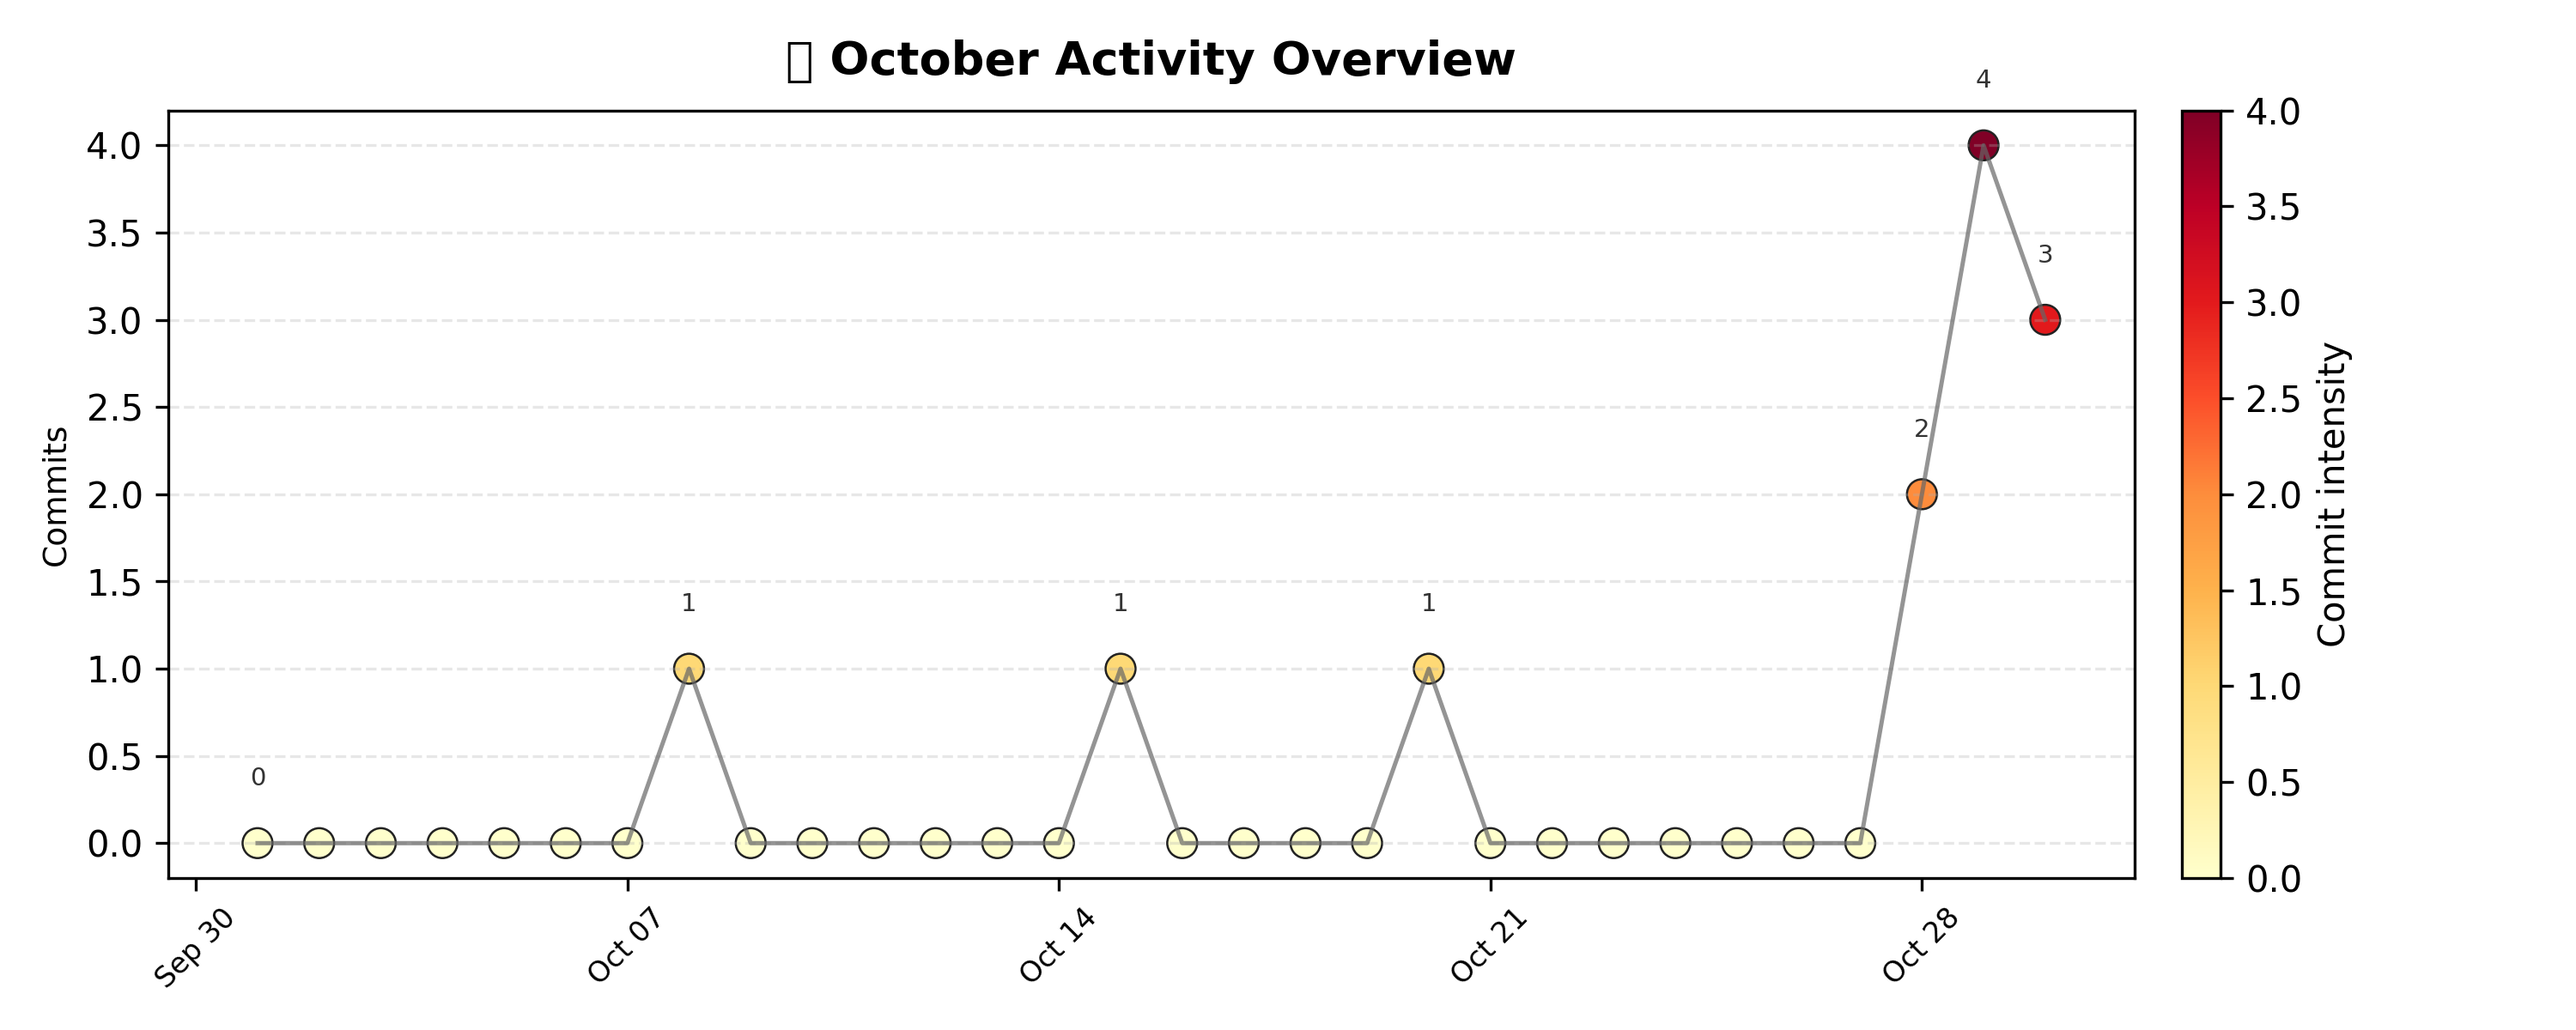
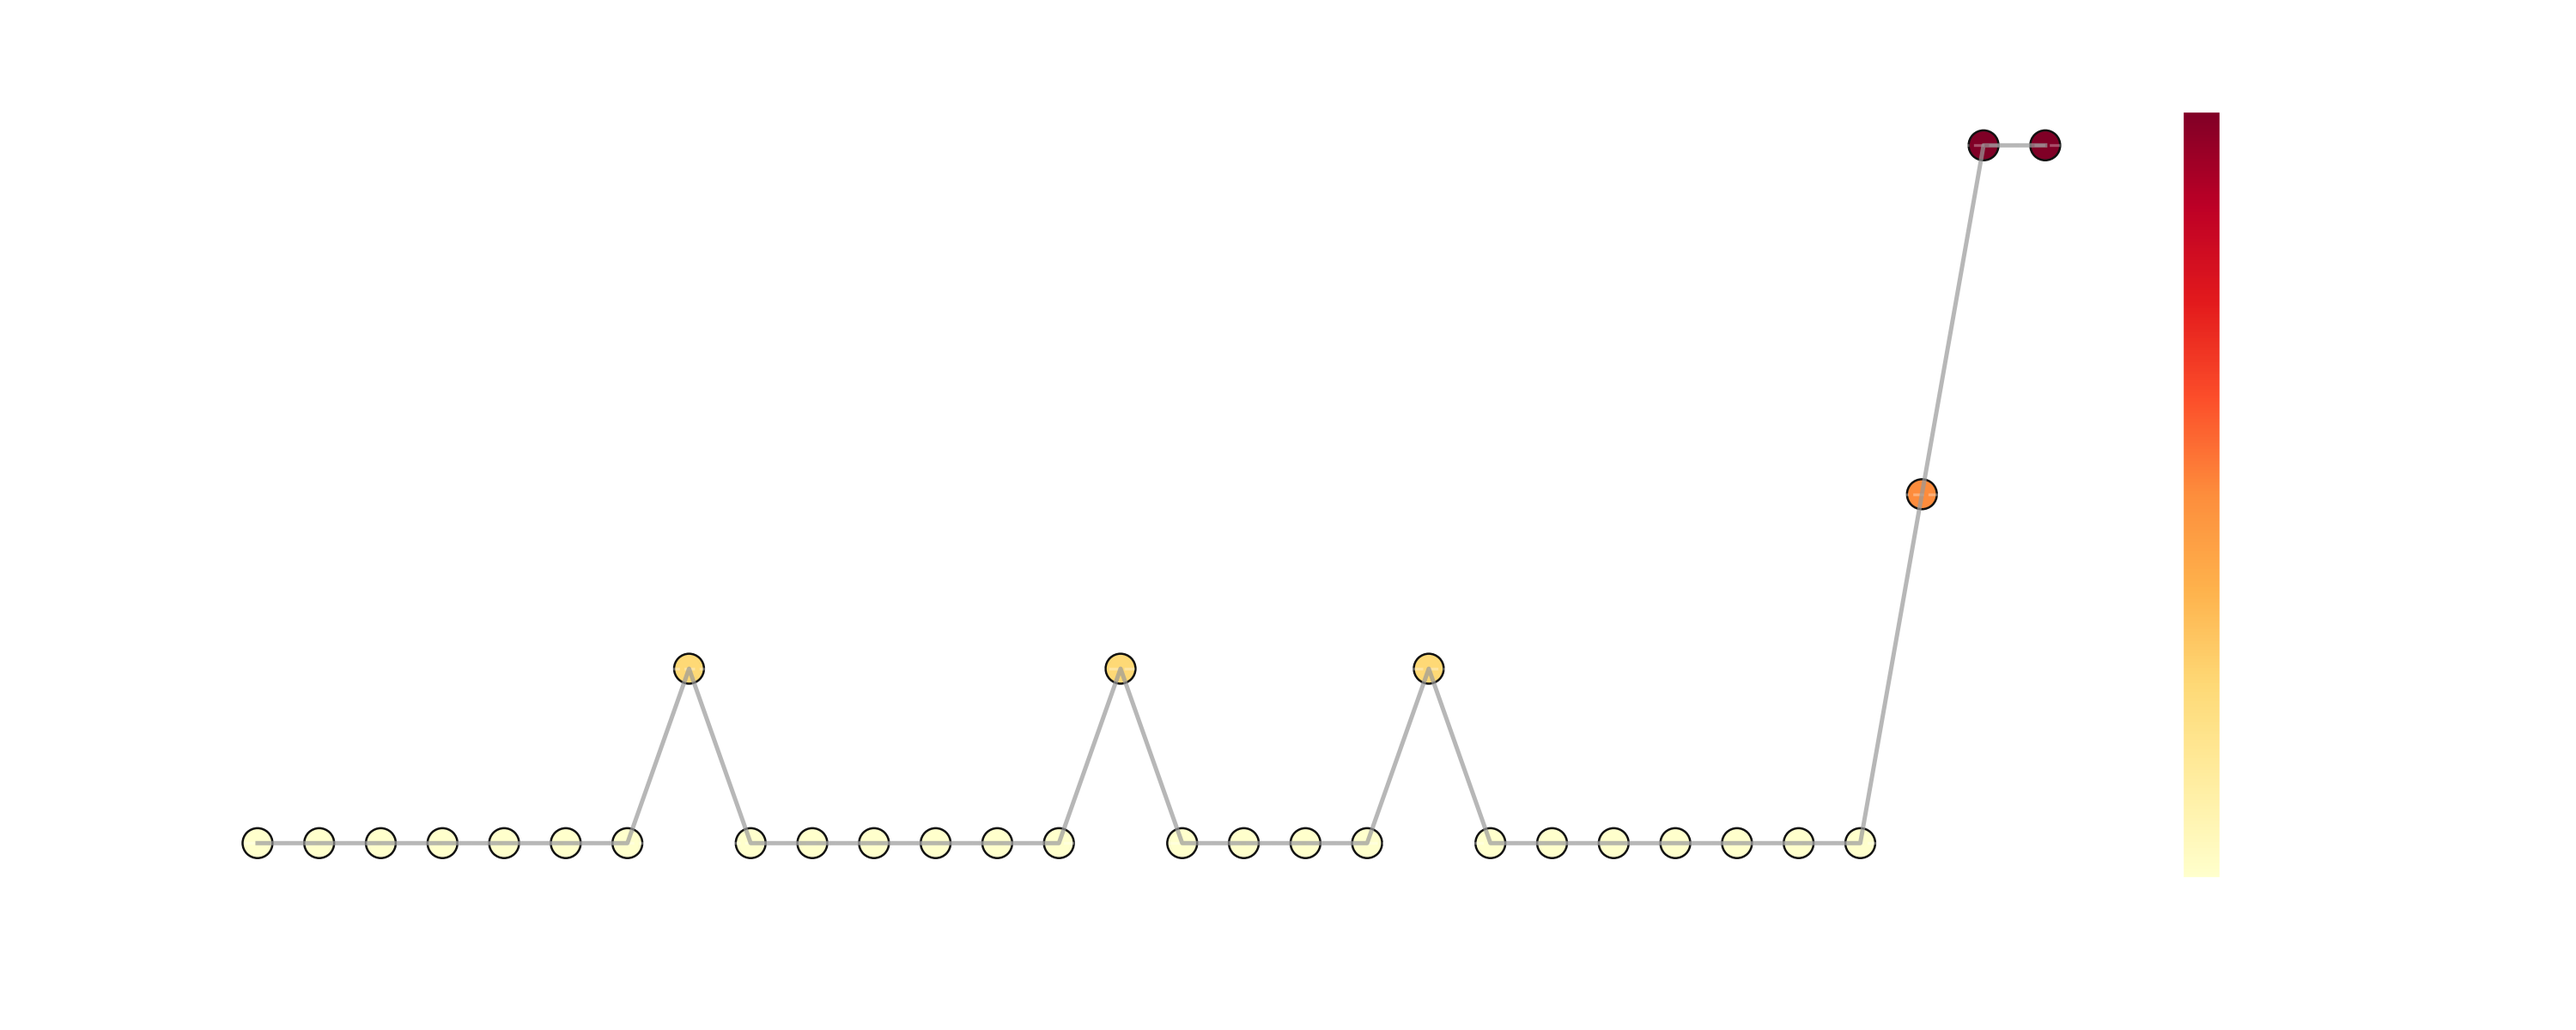
changed font color in graph

diff --git a/update_streak.py b/update_streak.py
@@ -165,7 +165,7 @@ def update_readme_section(new_section_md):
 
 def make_chart(counts_counter, out_file=CHART_FILE, transparent=True):
     """
-    Creates a visually appealing 30-day activity line chart with color-coded points.
+    Creates a visually rich 30-day activity chart with dark theme and white labels.
     """
     import matplotlib.pyplot as plt
     import matplotlib.dates as mdates
@@ -173,37 +173,49 @@ def make_chart(counts_counter, out_file=CHART_FILE, transparent=True):
     import numpy as np
     from datetime import datetime, timedelta, timezone
 
+    plt.style.use("dark_background")
+
     days = 30
     today = datetime.now(timezone.utc).date()
     dates = [today - timedelta(days=i) for i in range(days - 1, -1, -1)]
     commits = [counts_counter.get(str(d), 0) for d in dates]
-
     df = pd.DataFrame({"date": dates, "activity_count": commits})
+
+    # --- Color scheme ---
+    cmap = plt.cm.YlOrRd
+    norm = plt.Normalize(vmin=min(commits), vmax=max(commits) if max(commits) > 0 else 1)
 
     plt.figure(figsize=(10, 4))
     points = plt.scatter(
         df["date"], df["activity_count"],
-        c=df["activity_count"], cmap="YlOrRd", s=70,
-        edgecolor="#222", linewidth=0.6
+        c=df["activity_count"], cmap=cmap, s=70,
+        edgecolor="#111", linewidth=0.6
     )
-    plt.plot(df["date"], df["activity_count"], color="#666", linewidth=1.2, alpha=0.7)
+    plt.plot(df["date"], df["activity_count"], color="#999", linewidth=1.2, alpha=0.7)
 
-    # Label top 7 days
+    # --- Value labels for top points ---
     top_idx = df["activity_count"].nlargest(7).index
     for i in top_idx:
-        plt.text(df["date"][i], df["activity_count"][i] + 0.3, str(df["activity_count"][i]),
-                 ha="center", va="bottom", fontsize=7, color="#333")
+        plt.text(
+            df["date"][i], df["activity_count"][i] + 0.3,
+            str(df["activity_count"][i]),
+            ha="center", va="bottom", fontsize=8,
+            color="white", fontweight="bold"
+        )
 
-    # Format axes
+    # --- Axes & labels ---
     plt.title(f"🗓 {today.strftime('%B')} Activity Overview", fontsize=13, fontweight="bold", pad=10)
-    plt.ylabel("Commits", fontsize=9)
-    plt.xticks(rotation=45, fontsize=8)
+    plt.ylabel("Commits", fontsize=9, color="white")
+    plt.xticks(rotation=45, fontsize=8, color="white")
+    plt.yticks(color="white")
     plt.grid(axis="y", linestyle="--", alpha=0.3)
+
     plt.gca().xaxis.set_major_formatter(mdates.DateFormatter("%b %d"))
     plt.gca().xaxis.set_major_locator(mdates.WeekdayLocator(interval=1))
 
     plt.tight_layout()
-    plt.colorbar(points, label="Commit intensity", pad=0.02)
+    cbar = plt.colorbar(points, label="Commit Intensity", pad=0.02)
+    cbar.ax.yaxis.label.set_color("white")
     plt.savefig(out_file, dpi=300, transparent=transparent)
     plt.close()
 

diff --git a/activity_chart.py b/activity_chart.py
@@ -3,6 +3,8 @@ import matplotlib.dates as mdates
 import pandas as pd
 import numpy as np
 
+plt.style.use("dark_background")
+
 # --- Example Data (30 days) ---
 np.random.seed(42)
 dates = pd.date_range("2025-10-01", "2025-10-30")
@@ -23,7 +25,7 @@ plt.plot(df["date"], df["activity_count"], color="#555", linewidth=1.2, alpha=0.
 top_idx = df["activity_count"].nlargest(7).index
 for i in top_idx:
     plt.text(df["date"][i], df["activity_count"][i] + 0.3, str(df["activity_count"][i]),
-             ha="center", va="bottom", fontsize=7, color="#333")
+             ha="center", va="bottom", fontsize=8, color="white", fontweight="bold")
 
 # --- Format axes ---
 plt.title("🗓 October Activity Overview", fontsize=13, fontweight="bold", pad=10)
